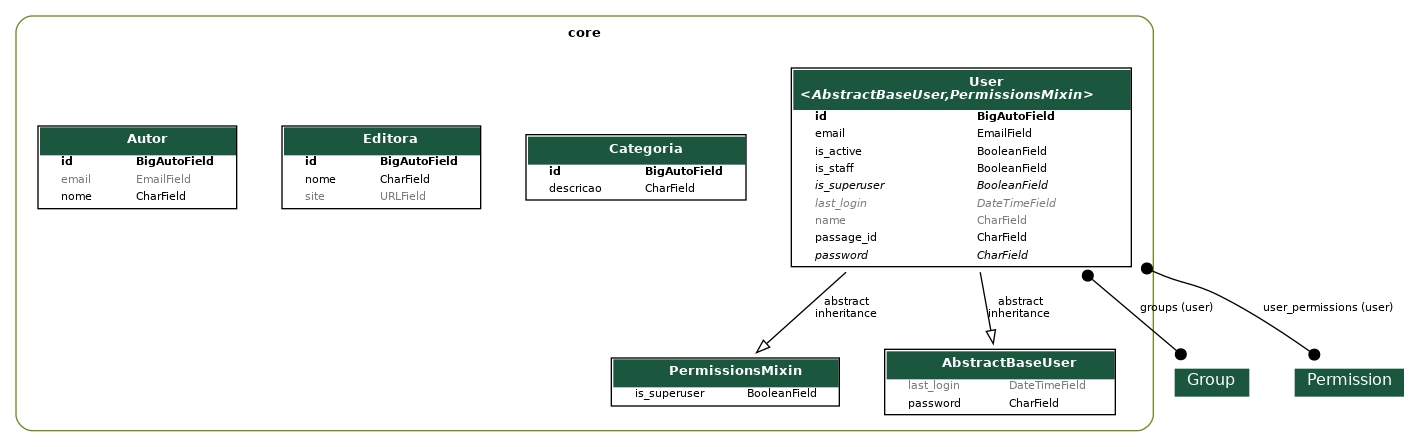
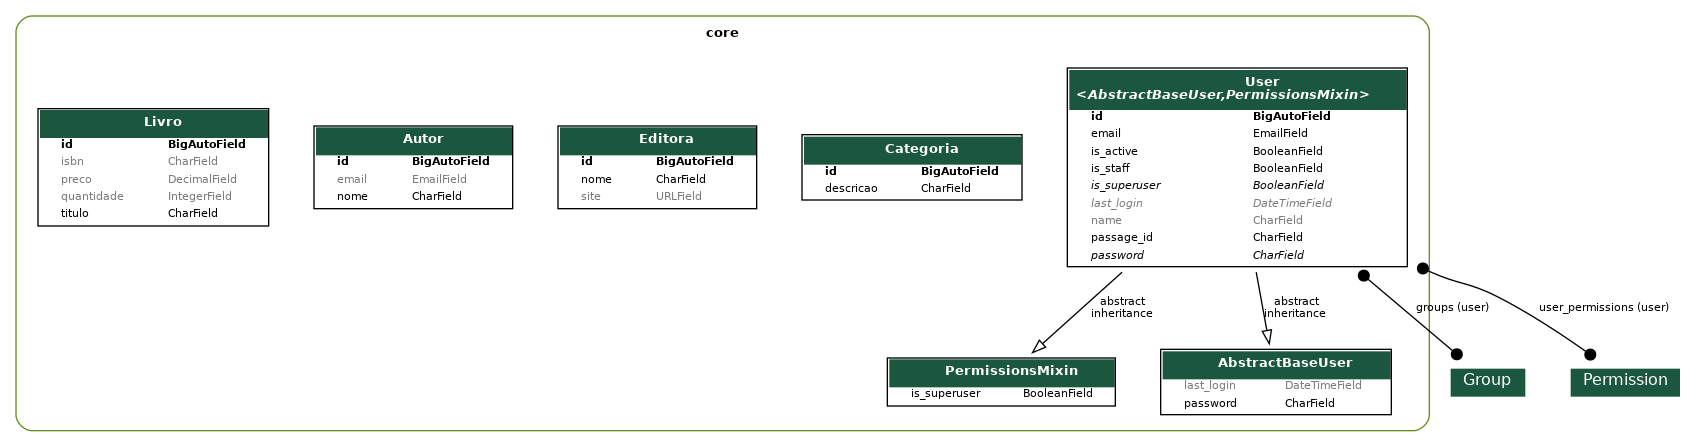
Feat: criação de múltiplos serializadores para Livro

diff --git a/app/core/migrations/0009_livro_alter_autor_options.py b/app/core/migrations/0009_livro_alter_autor_options.py
@@ -1,0 +1,27 @@
+# Generated by Django 5.1.7 on 2025-04-11 17:55
+
+from django.db import migrations, models
+
+
+class Migration(migrations.Migration):
+
+    dependencies = [
+        ('core', '0008_autor'),
+    ]
+
+    operations = [
+        migrations.CreateModel(
+            name='Livro',
+            fields=[
+                ('id', models.BigAutoField(auto_created=True, primary_key=True, serialize=False, verbose_name='ID')),
+                ('titulo', models.CharField(max_length=100)),
+                ('isbn', models.CharField(blank=True, max_length=32, null=True)),
+                ('quantidade', models.IntegerField(blank=True, default=0, null=True)),
+                ('preco', models.DecimalField(blank=True, decimal_places=2, default=0, max_digits=10, null=True)),
+            ],
+        ),
+        migrations.AlterModelOptions(
+            name='autor',
+            options={'verbose_name': 'Autor', 'verbose_name_plural': 'Autores'},
+        ),
+    ]

diff --git a/app/app/urls.py b/app/app/urls.py
@@ -1,5 +1,7 @@
 from django.contrib import admin
 from django.urls import include, path
+from click.utils import R
+from django.conf.locale import ro
 from drf_spectacular.views import (
     SpectacularAPIView,
     SpectacularRedocView,
@@ -7,7 +9,7 @@ from drf_spectacular.views import (
 )
 from rest_framework.routers import DefaultRouter
 
-from core.views import CategoriaViewSet, UserViewSet, EditoraViewSet, AutorViewSet
+from core.views import CategoriaViewSet, UserViewSet, EditoraViewSet, AutorViewSet, LivroViewSet
 
 router = DefaultRouter()
 
@@ -15,6 +17,7 @@ router.register(r'usuarios', UserViewSet, basename='usuarios')
 router.register(r'categorias', CategoriaViewSet, basename='categorias')
 router.register(r'editoras', EditoraViewSet, basename='editoras')
 router.register(r'autores', AutorViewSet, basename='autores')
+router.register(r'livros', LivroViewSet, basename='livros')
 
 urlpatterns = [
     path('admin/', admin.site.urls),

diff --git a/app/core/models/livro.py b/app/core/models/livro.py
@@ -1,0 +1,12 @@
+from django.db import models
+
+
+class Livro(models.Model):
+    titulo = models.CharField(max_length=100)
+    isbn = models.CharField(max_length=32, null=True, blank=True)
+    quantidade = models.IntegerField(default=0, null=True, blank=True)
+    preco = models.DecimalField(max_digits=10, decimal_places=2,default=0, null=True, blank=True)
+    
+
+    def __str__(self):
+        return f"({self.id}) - {self.titulo} - ({self.quantidade})"

diff --git a/app/core/views/livro.py b/app/core/views/livro.py
@@ -1,0 +1,9 @@
+from rest_framework.viewsets import ModelViewSet
+
+from core.models import Autor
+from core.serializers.autor import AutorSerializer
+
+
+class LivroViewSet(ModelViewSet):
+    queryset = Autor.objects.all()
+    serializer_class = AutorSerializer

diff --git a/app/core/serializers/livro.py b/app/core/serializers/livro.py
@@ -1,0 +1,9 @@
+from rest_framework.serializers import ModelSerializer
+
+from core.models import Livro
+
+
+class LivroSerializer(ModelSerializer):
+    class Meta:
+        model = Livro
+        fields = '__all__'

diff --git a/app/core/admin.py b/app/core/admin.py
@@ -56,3 +56,4 @@ admin.site.register(models.User, UserAdmin)
 admin.site.register(models.Categoria)
 admin.site.register(models.Editora)
 admin.site.register(models.Autor)
+admin.site.register(models.Livro)

diff --git a/app/core/serializers/__init__.py b/app/core/serializers/__init__.py
@@ -2,3 +2,4 @@ from .user import UserSerializer
 from .categoria import CategoriaSerializer
 from .editora import EditoraSerializer
 from .autor import AutorSerializer
+from .livro import LivroSerializer

diff --git a/app/core/views/__init__.py b/app/core/views/__init__.py
@@ -2,3 +2,4 @@ from .user import UserViewSet
 from .categoria import CategoriaViewSet
 from .editora import EditoraViewSet
 from .autor import AutorViewSet
+from .livro import LivroViewSet

diff --git a/app/core/models/__init__.py b/app/core/models/__init__.py
@@ -2,3 +2,4 @@ from .user import User
 from .categoria import Categoria
 from .editora import Editora
 from .autor import Autor
+from .livro import Livro
